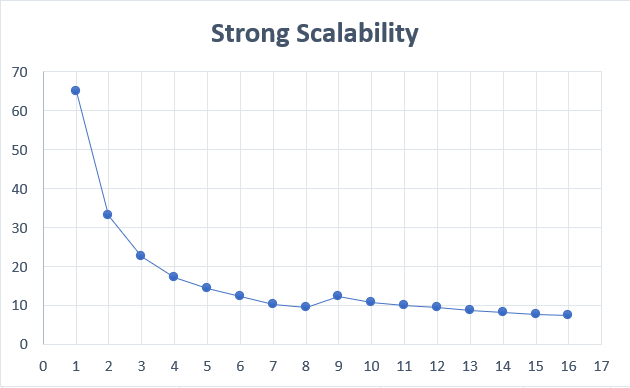
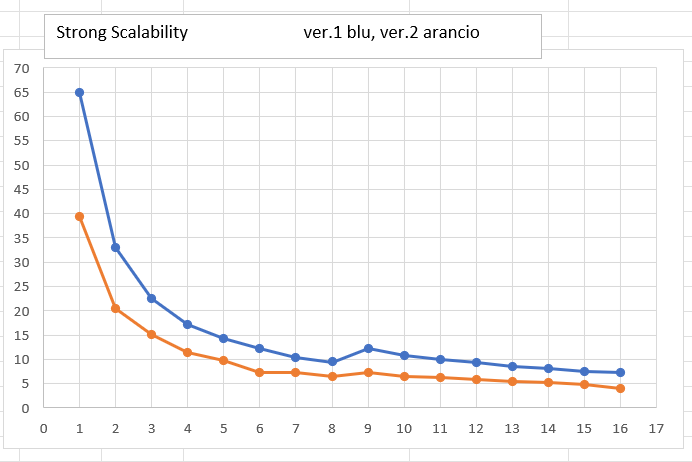
update readme

diff --git a/gol_clean.c b/gol_clean.c
@@ -275,7 +275,6 @@ int main(int argc, char **argv)
                 result_buffer = temp;
             }
         }
-
             
         /* invio e ricezione delle righe di bordo in modalità non bloccante*/
         /* rank invia la sua prima riga al processo precedente */

diff --git a/README.md b/README.md
@@ -362,7 +362,7 @@ Le prestazioni sono state valutate su un cluster GoogleCloud di 4 nodi e2-standa
 ## Scalabilità forte
 La scalabilità forte riguarda lo speedup per una dimensione fissa del problema rispetto al numero di processori. Per il test le dimensioni della matrice di partenza sono state fissate a 4000 righe e 4000 colonne e a variare sarà il numero di processori utilizzati (da 1 a 16). Il numero di iterazioni è stato fissato a 50. I tempi di esecuzione sono stati calcolati su una media di 3 esecuzioni. Di seguito i risultati in formato tabellare:
 
-### Versione 1
+### Tabella Versione 1 & Versione 2
 | # Processori | Dim. matrice (R=C) | Tempi di esecuzione (ms) | Speedup |
 | --- | --- | --- | --- |
 | 1 | 4000 | 64,89 | // |
@@ -382,26 +382,6 @@ La scalabilità forte riguarda lo speedup per una dimensione fissa del problema 
 | 15 | 4000 | 7,59 | 8,54 |
 | 16 | 4000 | 7,39 | 8,77 |
 
-### Versione 2
-| # Processori | Dim. matrice (R=C) | Tempi di esecuzione (ms) | Speedup |
-| --- | --- | --- | --- |
-| 1 | 4000 |  | // |
-| 2 | 4000 |  |  |
-| 3 | 4000 |  |  |
-| 4 | 4000 |  |  |
-| 5 | 4000 |  |  |
-| 6 | 4000 |  |  |
-| 7 | 4000 |  |  | 
-| 8 | 4000 |  |  |
-| 9 | 4000 |  |  | 
-| 10 | 4000 |  |  |
-| 11 | 4000 |  |  |
-| 12 | 4000 |  |  |
-| 13 | 4000 |  |  |
-| 14 | 4000 |  |  |
-| 15 | 4000 |  |  |
-| 16 | 4000 |  |  |
-
 Di seguito invece il grafico che mostra il rapporto fra i tempi di esecuzione (ordinata) e il numero di processori utilizzati (ascissa). Inizialmente il tempo di esecuzione scende vertiginosamente fino a stabilizzarsi dagli 8 processori in poi.
 
 <img src="images/strong_scal.png" height="400" />
@@ -414,24 +394,24 @@ Nel grafico seguente invece viene mostrato come varia lo speedup (ordinata) al c
 Lo scaling debole riguarda lo speedup per un problema di dimensioni scalari rispetto al numero di processori. Il numero di processori è stato fissato a 8 e il numero di iterazioni a 50. A variare sono le dimensioni della matrice di partenza. Dopo ogni prova aumentano il numero di righe e colonne gestite dal singolo processo (aggiunte 10 righe e 10 colonne).
 Di seguito i risultati sotto forma di tabella:
 
-| # Processori | Dim. matrice (R=C) | Tempi di esecuzione (ms) |
-| --- | --- | --- |
-| 8 | 160 | 0.6420 |
-| 8 | 320 | 0.1048 |
-| 8 | 400 | 0.1382 |
-| 8 | 480 | 0.1760 |
-| 8 | 560 | 0.2381 |
-| 8 | 640 | 0.2771 |
-| 8 | 720 | 0.3966 |
-| 8 | 800 | 0.5469 |
-| 8 | 880 | 0.6190 |
-| 8 | 960 | 0.6670 |
-| 8 | 1040 | 0.7797 |
-| 8 | 1280 | 1.1082 |
+| # Processori | Dim. matrice (R=C) | Tempi di esecuzione VERS.1 (ms) | Tempi di esecuzione VERS.2 (ms) | 
+| --- | --- | --- | --- |
+| 8 | 160 | 0.6420 | 0.0090 |
+| 8 | 320 | 0.1048 | 0.0417 |
+| 8 | 400 | 0.1382 | 0.0609 |
+| 8 | 480 | 0.1760 | 0.0834 |
+| 8 | 560 | 0.2381 | 0.1135 |
+| 8 | 640 | 0.2771 | 0.1470 |
+| 8 | 720 | 0.3966 | 0.1888 |
+| 8 | 800 | 0.5469 | 0.2402 |
+| 8 | 880 | 0.6190 | 0.2884 |
+| 8 | 960 | 0.6670 | 0.3658 |
+| 8 | 1040 | 0.7797 | 0.4021 |
+| 8 | 1280 | 1.1082 | 0.6445 |
 
 Il grafico invece mostra il rapporto tra il tempo di esecuzione (ordinata) e la dimensione della matrice quadrata (ascissa):
 
-<img src="images/weak2.png" height="400" />
+<img src="images/weak_scal.png" height="400" />
 
 ## Conclusioni
 Come mostrato nei risultati, la soluzione proposta scala discretamente bene. I processi lavorano parallelamente dalla prima fase dell'algoritmo, il riempimento della matrice, fino alla fase di calcolo della generazione successiva. Il processo MASTER si occupa di dividere la matrice e di riunire i risultati di ogni processo ma partecipa anch'esso alla computazione.
